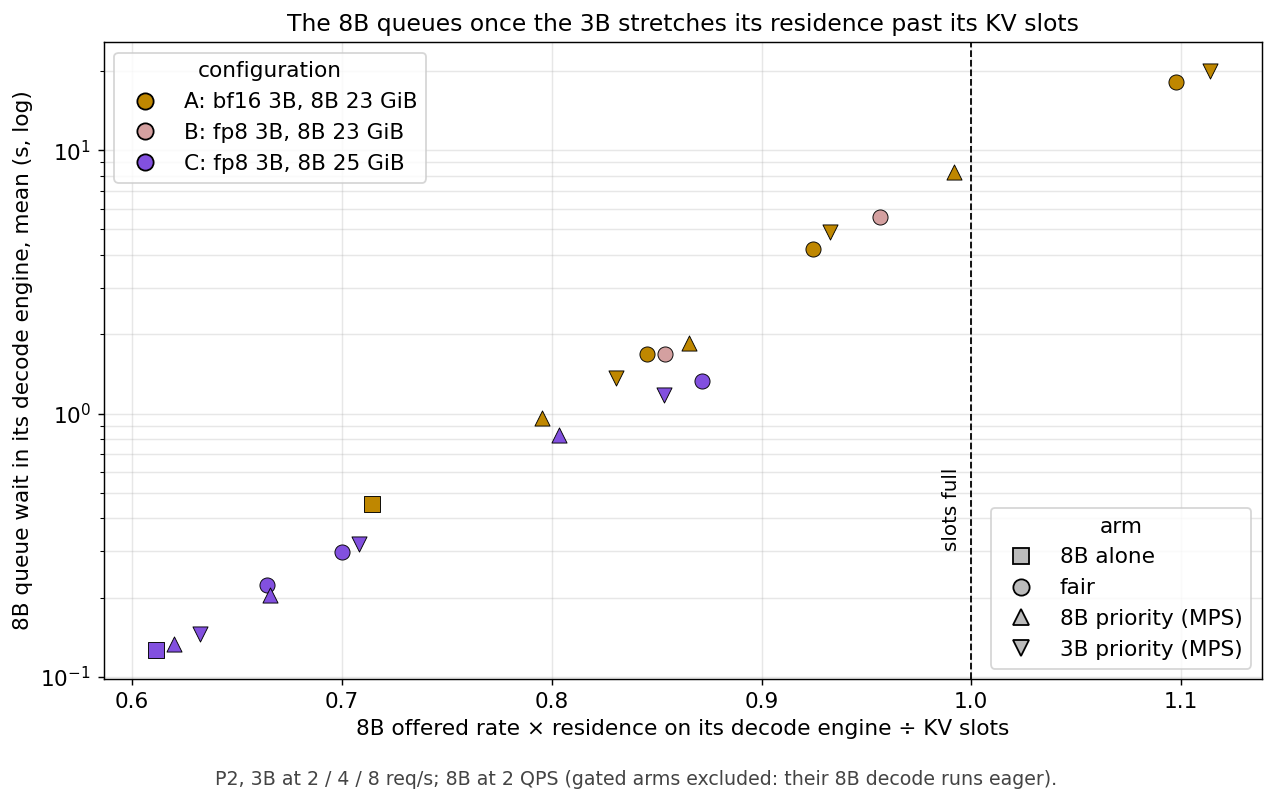
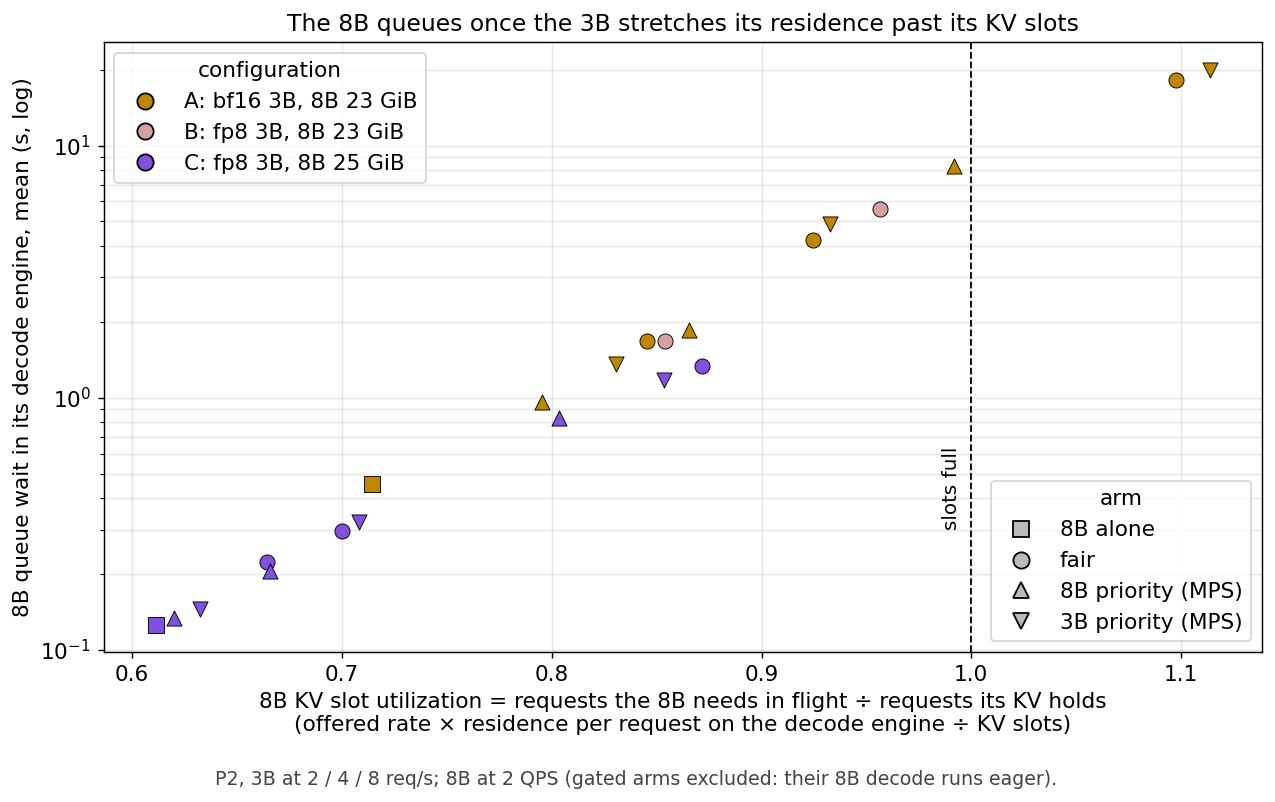
Priority report: slot utilization explained, all-arms figure moved after the priority results
- x-axis of pfp_slots.png renamed "8B KV slot utilization" (requests needed in flight /
  requests the KV holds); section 3.1 explains it with a worked example and shows the
  fair-sharing cells only.
- The all-arms slot figure moves to a new section 6, after the 8B- and 3B-priority
  results; it adds why MPS 8B priority matters in A (1.10 -> 0.99) but not in C. Takeaways
  become section 7.

diff --git a/scripts/plots/plot_pfp_results.py b/scripts/plots/plot_pfp_results.py
@@ -226,7 +226,8 @@ def slot_figure():
                    zorder=3)
     ax.axvline(1.0, color="k", ls="--", lw=1)
     ax.text(0.995, 0.3, "slots full", rotation=90, ha="right", va="bottom", fontsize=11)
-    ax.set(yscale="log", xlabel="8B offered rate × residence on its decode engine ÷ KV slots",
+    ax.set(yscale="log", xlabel="8B KV slot utilization = requests the 8B needs in flight ÷ requests its KV holds\n"
+                                "(offered rate × residence per request on the decode engine ÷ KV slots)",
            ylabel="8B queue wait in its decode engine, mean (s, log)",
            title="The 8B queues once the 3B stretches its residence past its KV slots")
     ax.grid(alpha=0.3, which="both")

diff --git a/reports/report_colocation_prio.md b/reports/report_colocation_prio.md
@@ -15,7 +15,7 @@ The short answer:
 > KV slot on its decode engine (+10–55% here). The 8B queues once its offered rate ×
 > that residence approaches the number of requests its KV grant holds — every non-gated
 > cell, across configurations, arms and 3B rates, falls on one curve of queue wait against that
-> ratio (§3.1). A decode with slot headroom absorbs the prefill almost for free: with an
+> ratio (§6). A decode with slot headroom absorbs the prefill almost for free: with an
 > fp8 3B beside an 8B at a 25 GiB budget, 16k prompt tokens/s of prefill cost the 8B
 > 1.7% of its throughput.
 >
@@ -144,23 +144,33 @@ the decode engine grows:
 | A (bf16 3B, 23 GiB), fair | 3.10 s | 3.66 (+18%) | 4.01 (+29%) | 4.76 (+54%) |
 | B (fp8 3B, 23 GiB), fair | 3.10 s | — | 3.70 (+19%) | 4.14 (+34%) |
 | C (fp8 3B, 25 GiB), fair | 3.43 s | 3.73 (+9%) | 3.93 (+15%) | 4.89 (+43%) |
-| A, MPS 8B priority | 3.10 s | 3.45 (+11%) | 3.75 (+21%) | 4.30 (+39%) |
 
 Each request in flight holds its whole prompt's KV (6400 tokens × 0.125 MiB = 0.78 GiB),
-so the decode engine holds **~8.7 requests at 23 GiB and ~11.2 at 25 GiB**. By Little's
-law the 8B needs offered rate × residence of them.
+so the decode engine holds **~8.7 requests at 23 GiB and ~11.2 at 25 GiB** — its *slots*.
+How many slots the 8B *needs* follows from Little's law: requests arrive at 2 per second
+and each stays for its residence, so on average 2 × residence are in flight. The ratio
+of the two is the **KV slot utilization**:
 
-![slot pressure](../figures/pfp_slots.png)
+> slot utilization = (offered rate × residence) ÷ slots
 
-*Every non-gated P2 cell (A, B, C; fair, MPS 8B priority, MPS 3B priority; 8B alone):
-the 8B's mean queue wait on its decode engine against offered rate × residence ÷ KV
-slots.*
+Worked through for config A: alone, 2 req/s × 3.10 s = 6.2 requests in flight on 8.7
+slots → **0.71**. With the 3B at 8 req/s each request stays 4.76 s, so 9.5 are needed on
+the same 8.7 slots → **1.10**: more requests want a slot than there are, and the excess
+waits in the decode engine's queue. (Like a car park: arrivals per second × minutes
+parked = cars inside; once that exceeds the spaces, a queue forms at the gate. The 3B
+does not slow the cars; it makes each one stay longer.)
 
-**All cells fall on one curve.** The queue is ~0.1–0.3 s below 0.7 of the slots, ~1–2 s
-at 0.8–0.87, 4–8 s at 0.92–0.99, and 18–20 s past 1.0 (A at 8 req/s, fair and 3B
-priority). Configuration, arm and 3B rate matter only through where they put this ratio.
-It rises before 1.0 because arrivals are bursty: Poisson arrivals overfill the slots
-before the average does.
+Under fair sharing, the 8B's queue follows its slot utilization:
+
+| 8B slot utilization → queue wait | alone | 2 req/s | 4 req/s | 8 req/s |
+|---|---|---|---|---|
+| A (8.7 slots) | 0.71 → 0.45 s | 0.85 → 1.7 s | 0.92 → 4.2 s | **1.10 → 18.2 s** |
+| B (8.7 slots) | 0.71 → 0.45 s | — | 0.85 → 1.7 s | 0.96 → 5.6 s |
+| C (11.2 slots) | 0.61 → 0.13 s | 0.66 → 0.22 s | 0.70 → 0.30 s | 0.87 → 1.3 s |
+
+Below ~0.7 the queue is a fraction of a second; at 0.85–0.96 it is seconds; past 1.0 it
+grows without bound. It rises before 1.0 because arrivals are random: bursts fill the
+slots before the average does. §6 shows the priority arms follow the same rule.
 
 ### 3.2 What fp8 and two more GiB each do
 
@@ -168,7 +178,7 @@ before the average does.
 |---|---|---|---|
 | 4 req/s: 8B tok/s / TPOT / queue | 239.6 / 59 ms / 4.2 s | 247.9 / 41 ms / 1.7 s | 253.7 / 34 ms / 0.30 s |
 | 8 req/s: 8B tok/s / TPOT / queue | 209.3 / 166 ms / 18.2 s | 233.7 / 68 ms / 5.6 s | 246.1 / 44 ms / 1.3 s |
-| 8 req/s: slot ratio | 1.10 | 0.96 | 0.87 |
+| 8 req/s: slot utilization | 1.10 | 0.96 | 0.87 |
 
 - **A → B (fp8 3B, same 8B) cuts the interference by about a third:** residence +54% →
   +34% at 8 req/s. The fp8 prefill occupies the GPU about half as long (3B alone at
@@ -178,7 +188,7 @@ before the average does.
   4.14 s) moves the 8B from just past its slots (1.10) to just under (0.96), and its queue
   from 18 to 5.6 s.
 - **B → C (two more GiB for the 8B) adds slots, not speed:** 8.7 → 11.2 requests. The
-  residence is no shorter (4.89 s), but the ratio falls to 0.87 and the queue to 1.3 s.
+  residence is no shorter (4.89 s), but the slot utilization falls to 0.87 and the queue to 1.3 s.
 
 ---
 
@@ -212,7 +222,7 @@ A fair 8 req/s 164.5 vs 166 ms; A mps8b 4 req/s 42.7 vs 42.1 ms.*
   margin: 88 ms and 227 tok/s vs 166 ms and 209 tok/s at fair. In C the same ordering
   holds with small margins, because fair sharing costs the 8B little there. It works on
   the quantity that matters: the 8B's residence grows +39% instead of +54% (A, 8 req/s),
-  enough to bring the slot ratio from 1.10 to 0.99 (§3.1).
+  enough to bring the slot utilization from 1.10 to 0.99 (§6).
 - **Gating gives the 8B no more than fair sharing.** A at 4 req/s 64 ms (fair 59); at
   8 req/s 127 ms (fair 166, mps8b 88), with the 8B's per-token gap rising from 15 to 24 ms.
 - **…and it starves the 3B.** The gated 3B issues kernels only between 8B decode steps:
@@ -279,13 +289,39 @@ in the 8B panels = the 8B alone with an eager decode, gate3b's baseline.*
 - **Gating the 8B costs it more than the eager decode it requires.** At 8 req/s the 8B
   with an eager decode and no gate has 193 ms (A) / 45 ms (C) of TPOT; gated, 225 / 58 ms.
 
-## 6. Takeaways
+## 6. One rule across configurations and arms
+
+§3.1 explained the 8B's queue under fair sharing by its KV slot utilization. The priority
+arms change the same quantity. MPS 8B priority shortens the 8B's residence (A, fair →
+mps8b: 3.66 → 3.45 s at 2 req/s, 4.01 → 3.75 at 4, 4.76 → 4.30 at 8; growth +54% → +39%
+at 8 req/s); MPS 3B priority lengthens it slightly. Plotting every non-gated cell
+against its slot utilization:
+
+![slot pressure](../figures/pfp_slots.png)
+
+*Every non-gated P2 cell (A, B, C; fair, MPS 8B priority, MPS 3B priority; 8B alone):
+the 8B's mean queue wait on its decode engine against its KV slot utilization. 1.0 = on
+average every slot is taken.*
+
+**All cells fall on one curve.** The queue is ~0.1–0.3 s below 0.7 of the slots, ~1–2 s
+at 0.8–0.87, 4–8 s at 0.92–0.99, and 18–20 s past 1.0 (A at 8 req/s, fair and 3B
+priority). Configuration, arm and 3B rate matter only through where they put the slot
+utilization.
+
+The priority arms add no separate effect: they help or hurt the 8B exactly as far as they
+move its residence, and the rule says where that matters — near 1.0. That is why MPS 8B
+priority looks strong in A at 8 req/s (1.10 → 0.99) and marginal in C (0.87 → 0.80).
+The gated arms are left out because their 8B decode runs eager (gate3b) or their 3B is
+starved below its offered rate (gate8b at 8 req/s), which changes the load, not just the
+residence.
+
+## 7. Takeaways
 
 1. **A prefill neighbour costs a decode KV slots, not tokens.** It leaves the decode's
    median step alone but stretches how long each request holds its KV (+10–55% here).
    The decode is safe while offered rate × residence stays clearly below the requests its
    KV grant holds (≤ ~0.8 of it for < 1 s of queue at Poisson arrivals); past ~0.9 it
-   queues for seconds, past 1.0 without bound (§3.1). This is a sizing rule: measure the
+   queues for seconds, past 1.0 without bound (§3.1, §6). This is a sizing rule: measure the
    residence with the neighbour, and size the decode's KV for it.
 2. **With slot headroom, prefill on the decode GPU is nearly free.** Config C with MPS 8B
    priority: 7.7 req/s × 2048 tokens ≈ 16k prompt tokens/s of 3B prefill at 71 ms TTFT,
@@ -308,7 +344,7 @@ in the 8B panels = the 8B alone with an eager decode, gate3b's baseline.*
 - Most cells are single runs; the key A cells at 4 and 8 req/s have two (fair, mps8b),
   and clean repeats agree within 1–3%. Swap-backed cells are marked †.
 - Config B was run under fair sharing only, at 4 and 8 req/s.
-- The slot rule (§3.1) is fitted on one 8B, one workload and P2 only; the residence a
+- The slot rule (§3.1, §6) is fitted on one 8B, one workload and P2 only; the residence a
   neighbour adds has to be measured, not derived.
 - The 3B workload is synthetic (fresh 2048-token prompts, one output token); MPS client
   priority has two levels only.
@@ -333,7 +369,7 @@ scripts/inf_pf_prio/queue_supp3.sh; scripts/inf_pf_prio/queue_supp4.sh   # confi
 $PY $D --cells p2 --arm gate8bt --sm-qps 8 --budget 23 --sm-quant "" --sm-util 0.205 --name-suffix _b23_r2
 scripts/inf_pf_prio/queue_supp6.sh          # §4.1, the 8B at 2.5 / 3 QPS
 # figures (view them before believing them)
-$PY scripts/plots/plot_pfp_results.py     # incl. pfp_slots.png (§3.1)
+$PY scripts/plots/plot_pfp_results.py     # incl. pfp_slots.png (§6)
 ```
 
 Data: `output/summary_pfp.csv` (rebuilt from raw on every run); raw records

diff --git a/DECISIONS_PF_PRIO.md b/DECISIONS_PF_PRIO.md
@@ -234,3 +234,4 @@ The main queue raises two questions the report would otherwise leave as conjectu
   128-token decode at A, 8 req/s); fp8 cuts the residence growth by about a third
   (+54% → +34%), and the 3× shorter queue is the cliff amplifying it; tighter gating helps
   the 8B in C only by throttling the 3B. Renamed the supplement arm "tighter gating".
+- **10-19 — report restructured (user):** the all-arms slot figure moved from §3 to a new §6 after the priority results; §3.1 keeps the slot-utilization explanation with fair-sharing cells only; takeaways are §7. x-axis renamed "KV slot utilization".
